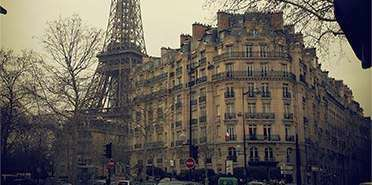
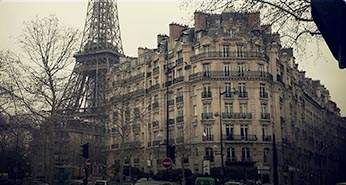
fully complete widgets task

diff --git a/forms_and_widgets/index.html b/forms_and_widgets/index.html
@@ -78,7 +78,7 @@
     <div class="widget second-widget">
         <header  class="second-widget-header">
           <figure class="header-img">
-            <img src="img/picture1.jpg" alt="beautiful picture" />
+            <img src="img/picture1.jpg" alt="beautiful picture"/>
             <figcaption>
               <span class="caption building"><a href="#">Hotel Relais</a></span>
               <span class="caption point sprite"><a href="#">Paris, France</a></span>
@@ -93,7 +93,8 @@
             </dt>
             <dd>
               <div class="input-wrapper date-wrapper">
-                <input type="text" id="check-in" name="check-in" class="text-input date-input" placeholder="9 July, 2016" value="">
+                <!--  Because placeholder is not supported in IE 9, I set date into value attribute-->
+                <input type="text" id="check-in" name="check-in" class="text-input date-input" value="9 July, 2016">
                 <button type="button" name="call-calendar" class="input-button call-calendar sprite"></button>
               </div>
             </dd>
@@ -102,7 +103,8 @@
             </dt>
             <dd>
               <div class="input-wrapper date-wrapper">
-                <input type="text" id="check-out" name="check-out" class="text-input date-input" placeholder="16 July, 2016" value="">
+                <!--  Because placeholder is not supported in IE 9, I set date into value attribute-->
+                <input type="text" id="check-out" name="check-out" class="text-input date-input" value="16 July, 2016">
                 <button type="button" name="call-calendar" class="input-button call-calendar sprite"></button>
               </div>
             </dd>
@@ -161,8 +163,8 @@
         <p class="description-text">Lorem ipsum dolor sit amet, consectetur adipiscing elit. Maecenas a pulvinar ipsum. Aliquam sit amet iaculis dolor. Vivamus sed diam sollicitudin. </p>
         <a href="#" class="read-more">Read more</a>
       </div>
-      <div class="preview vertical-bottom-text">
-        <!-- <img src="img/picture2.jpg" alt="place photo" class="place-photo"/> -->
+      <div class="preview">
+        <img src="img/picture2.jpg" alt="place photo" class="place-photo"/>
         <div class="social-block">
           <a href="#" class="comment sprite">752</a>
           <a href="#" class="like sprite">2709</a>

diff --git a/forms_and_widgets/css/style.css b/forms_and_widgets/css/style.css
@@ -31,25 +31,15 @@
 
 /*************MAIN STYLES***************/
 body, html {
-  /*height: 100%;*/
+  height: 100%;
   margin: 0;
   padding: 0;
   font-family: Gotham, Arial, sans-serif;
   background-color: #d9d9d9;
 }
 
-body {
-  margin: 5px;
-  margin-bottom: 130px;
-  display: flex;
-  /*flex-direction: column;*/
-  flex-wrap: wrap;
-  justify-content: flex-start;
-  align-content: flex-start;
-}
-
 .widget {
-  margin: 10px;
+  margin: 15px auto;;
   padding: 0;
   overflow: hidden;
   border-radius: 5px;
@@ -292,7 +282,7 @@ a:active {
 }
 
 .header-img img {
-  margin-left: -23px;
+  /*margin-left: -23px;*/
 }
 
 .header-img figcaption {
@@ -342,6 +332,7 @@ dd {
 
 .date-input {
   width: 238px;
+  color: #999898;
 }
 
 .date-wrapper {
@@ -530,6 +521,7 @@ a.toggle.selected {
   position: absolute;
   top: 37px;
   right: -22px;
+  z-index: 1;
   border-left: 22px solid white;
   border-top: 22px solid transparent;
   border-bottom: 22px solid transparent;
@@ -587,16 +579,15 @@ a.toggle.selected {
 .preview {
   width: 363px;
   height: 100%;
-  text-align: right;
-  vertical-align: bottom;
-  background-image: url(../img/picture2.jpg);
-  background-repeat: no-repeat;
-  background-position: left bottom;
+  position: relative;
 }
 
 .social-block {
   margin: 23px 28px 20px;
   display: inline-block;
+  position: absolute;
+  bottom: 0;
+  right: 0;
 }
 
 .social-block .like,
@@ -615,10 +606,17 @@ a.toggle.selected {
 .social-block .like {
   background-position: -30px -768px;
 }
-/*.place-photo {
+
+.social-block a {
+  height: 24px;
+  display: inline-block;
+  box-sizing: border-box;
+}
+
+.place-photo {
   width: 100%;
   height: 100%;
-}*/
+}
 /***************************************/
 /*************FOURTH WIDGET**************/
 .fourth-widget {
